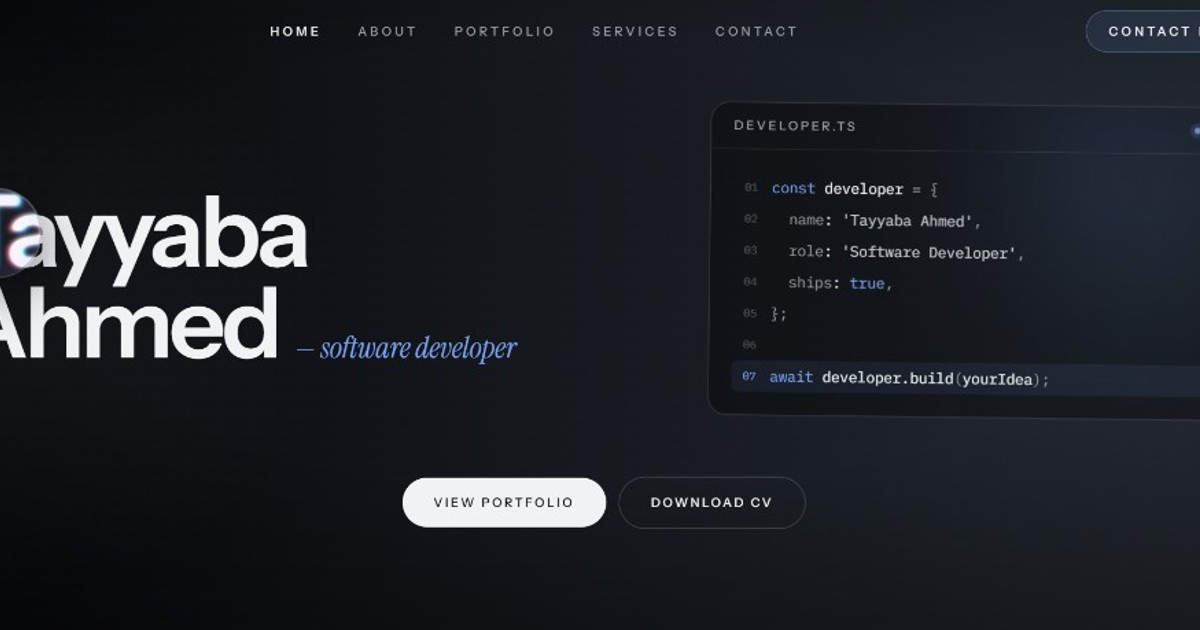
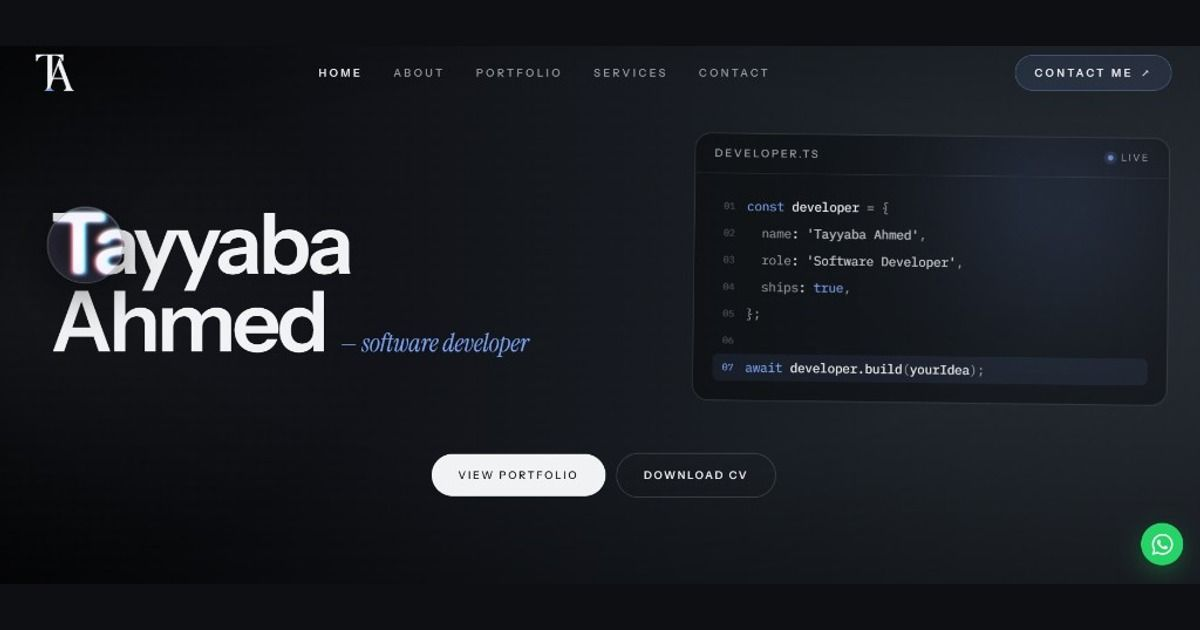
..

diff --git a/src/components/JsonLd.tsx b/src/components/JsonLd.tsx
@@ -7,7 +7,7 @@ export function JsonLd() {
     "@type": "Person",
     name: site.fullName,
     url: siteUrl,
-    image: `${siteUrl}/og-share.jpg`,
+    image: `${siteUrl}/og-share.jpg?v=3`,
     jobTitle: site.title,
     description: siteDescription,
     email: site.email,
@@ -43,7 +43,7 @@ export function JsonLd() {
     name: `${site.fullName} — Web Development`,
     url: siteUrl,
     description: siteDescription,
-    image: `${siteUrl}/og-share.jpg`,
+    image: `${siteUrl}/og-share.jpg?v=3`,
     email: site.email,
     telephone: site.phone,
     areaServed: "Worldwide",

diff --git a/src/app/portfolio/page.tsx b/src/app/portfolio/page.tsx
@@ -15,7 +15,14 @@ export const metadata: Metadata = {
     title: `Portfolio — ${site.fullName}`,
     description: `Selected work by ${site.fullName}: websites, ecommerce, WordPress, and product builds.`,
     url: "/portfolio",
-    images: [{ url: "/og-share.jpg", width: 1200, height: 630, alt: `Portfolio — ${site.fullName}` }],
+    images: [
+      {
+        url: "/og-share.jpg?v=3",
+        width: 1200,
+        height: 630,
+        alt: `Portfolio — ${site.fullName}`,
+      },
+    ],
   },
 };
 

diff --git a/src/app/layout.tsx b/src/app/layout.tsx
@@ -68,7 +68,7 @@ export const metadata: Metadata = {
     type: "website",
     images: [
       {
-        url: "/og-share.jpg",
+        url: "/og-share.jpg?v=3",
         width: 1200,
         height: 630,
         alt: siteTitle,
@@ -80,7 +80,7 @@ export const metadata: Metadata = {
     card: "summary_large_image",
     title: siteTitle,
     description: siteDescription,
-    images: ["/og-share.jpg"],
+    images: ["/og-share.jpg?v=3"],
   },
   formatDetection: {
     email: false,
